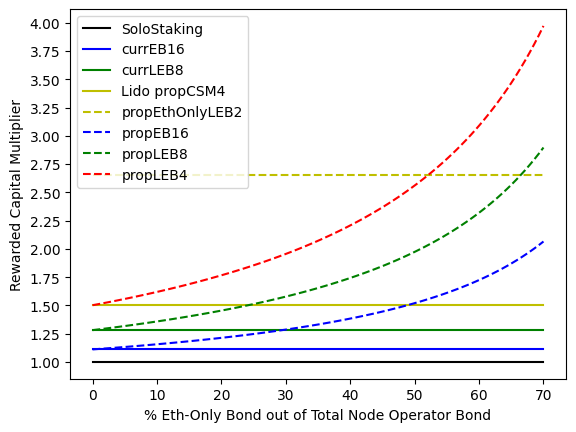
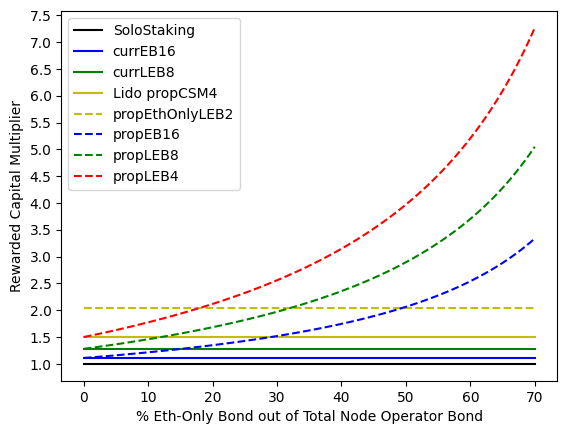
Fix the bond plots

diff --git a/RCM_plotter_explained.md b/RCM_plotter_explained.md
@@ -37,7 +37,14 @@ The x-axis on the first picture (on the left) ranges from 0% to 70% because of '
 |scenario 1|scenario 2|scenario 3|
 |:-:|:-:|:-:|
 |a=3, d=7 (Eth-Only Bond raised to all LEB8, all Rpl-Staked LEB4)|a=7, d=2, default inputs (Eth-Only all LEB4, Rpl-Staked between EB16 and LEB8) |a=15, d=1 (Eth-Only Bond lowered to all LEB2, Rpl-Staked all EB16)|
-|![EOLEB8](/plots/EO_LEB8.png)|![Default](/plots/defaultInputs.png)|![EOLEB2](/plots/EO_LEB2.png)|\
+|![EOLEB8](/plots/EO_LEB8.png)|![Default](/plots/EO_LEB4_default.png)|![EOLEB2](/plots/EO_LEB2.png)|\
+
+**Conclusion**: In the equation to determine diverted commission, 'a' is a numerator, 'd' is a denominator. This makes sense intuitively: by lowering the Eth-Only Bond 'a', there is more commission diverted to Rpl-Staked node operators. This pot of commission is split among Rpl-Staked node operators though, and the larger 'd' is (the lower the Rpl-Staked Bond) the more minipools there are to split the commission into - so each minipool receives a smaller amount. Scenario 1 assumes all Rpl-Staked node operators are comfortable with high RPL exposure (LEB4), and Scenario 3 assumes all Rpl-Staked node operators want minimum RPL exposure (EB16)
+
+**Example 3**: The effects of removing RPL inflation (lowering it to 0%) (keep all input variables the same but change 'f'):
+|scenario 1|scenario 2|
+|:-:|:-:|
+|![Default](/plots/defaultInputs.png)|![EOLEB2](/plots/EO_LEB2.png)|\
 
 **Conclusion**: In the equation to determine diverted commission, 'a' is a numerator, 'd' is a denominator. This makes sense intuitively: by lowering the Eth-Only Bond 'a', there is more commission diverted to Rpl-Staked node operators. This pot of commission is split among Rpl-Staked node operators though, and the larger 'd' is (the lower the Rpl-Staked Bond) the more minipools there are to split the commission into - so each minipool receives a smaller amount. Scenario 1 assumes all Rpl-Staked node operators are comfortable with high RPL exposure (LEB4), and Scenario 3 assumes all Rpl-Staked node operators want minimum RPL exposure (EB16) 
 
